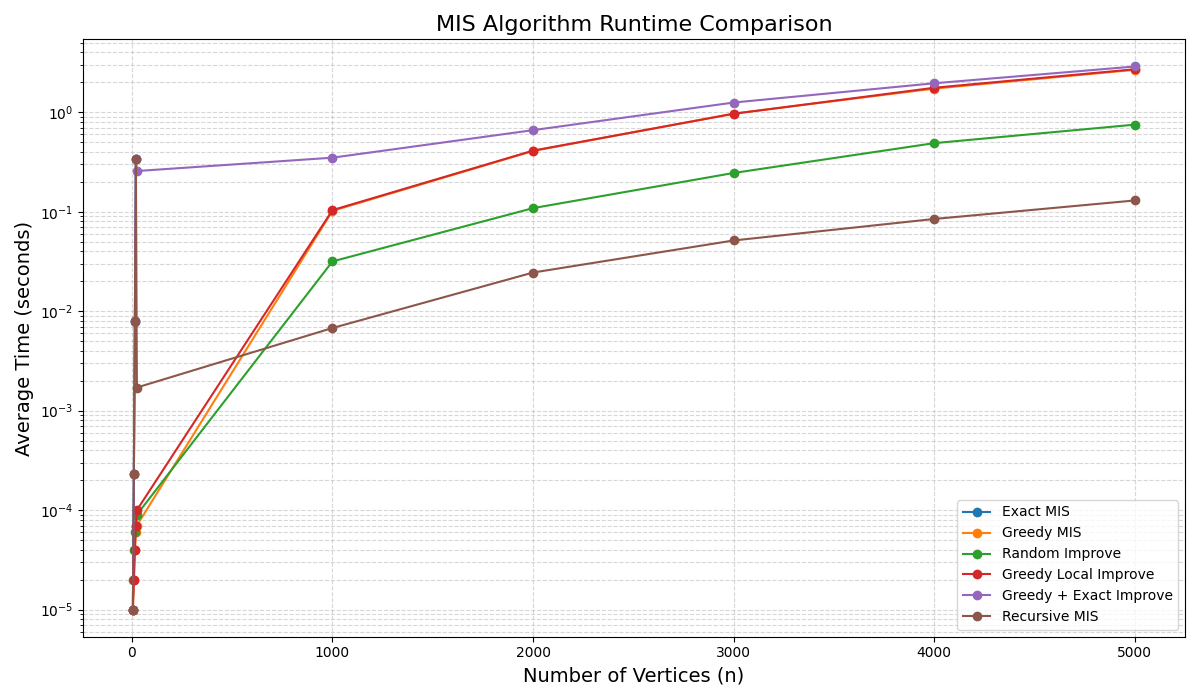
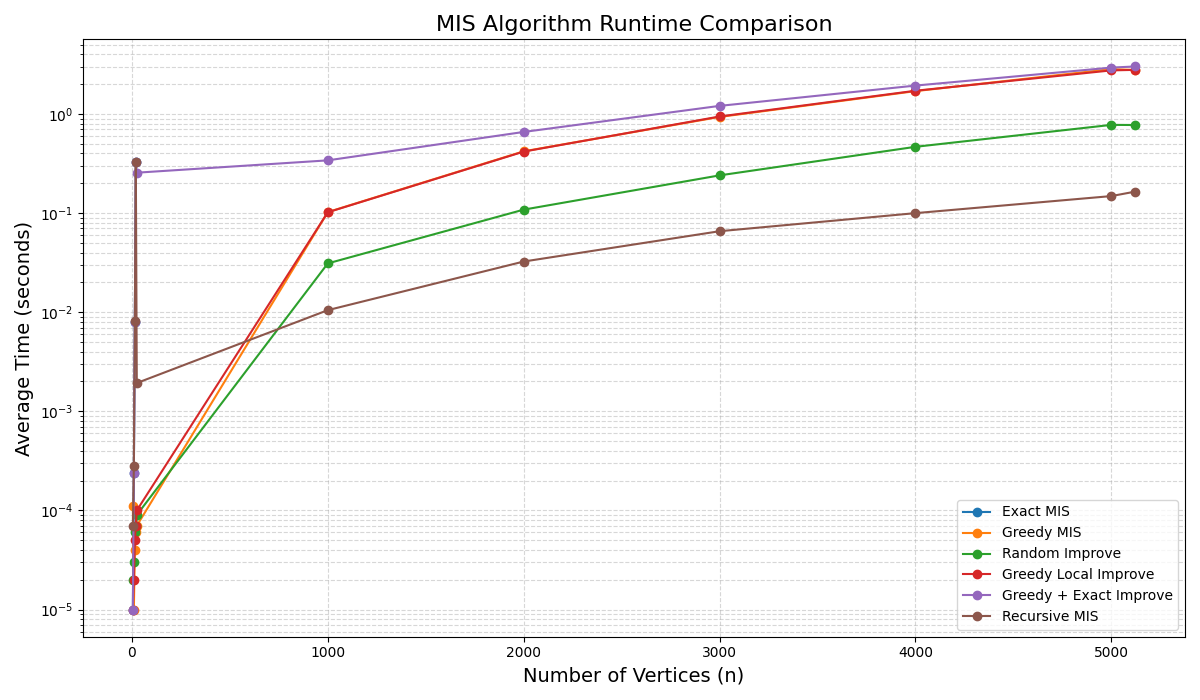
Plots added

diff --git a/main.py b/main.py
@@ -51,6 +51,42 @@ def plot_mis_times(csv_file="mis_results.csv"):
     plt.savefig("time_plot.png")
     plt.close()
 
+def plot_mis_sizes(csv_file="mis_results.csv"):
+    """
+    Reads the pivot CSV produced by MIS experiments and plots
+    the size of the MIS found by each algorithm vs. number of vertices.
+    """
+
+    # Load CSV
+    df = pd.read_csv(csv_file)
+
+    x = df["vertices"]
+
+    plt.figure(figsize=(12, 7))
+
+    # Only plot exact where it exists (small n)
+    plt.plot(x, df["exact_size"], marker="o", label="Exact MIS")
+
+    plt.plot(x, df["greedy_size"], marker="o", label="Greedy MIS")
+    plt.plot(x, df["random_size"], marker="o", label="Random Improve")
+    plt.plot(x, df["greedy_local_improve_size"], marker="o",
+             label="Greedy Local Improve")
+    plt.plot(x, df["greedy_brute_force_size"], marker="o",
+             label="Greedy + Exact Improve")
+    plt.plot(x, df["recursive_size"], marker="o",
+             label="Recursive MIS")
+
+    plt.xlabel("Number of Vertices (n)", fontsize=14)
+    plt.ylabel("MIS Size (|S|)", fontsize=14)
+    plt.title("MIS Algorithm Solution Size Comparison", fontsize=16)
+
+    plt.grid(True, linestyle="--", alpha=0.5)
+    plt.legend()
+    plt.tight_layout()
+
+    plt.savefig("size_plot.png")
+    plt.close()
+
 
 def find_time(func, graph):
     start = t.perf_counter()
@@ -160,6 +196,10 @@ def main():
         e = 2 * n
         row = test_time_metrics(n, e)
         all_rows.append(row)
+    n = 5120
+    e = 2 * n
+    row = test_time_metrics(n, e)
+    all_rows.append(row)
 
     # Write pivot-style CSV
     with open("mis_results.csv", "w", newline="") as f:
@@ -183,9 +223,11 @@ def main():
         writer.writerows(all_rows)
 
     print("\nCSV file 'mis_pivot_results.csv' written successfully!")
-    plot_mis_times()
+    
     
 
 
 if __name__ == "__main__":
     main()
+    plot_mis_times()
+    plot_mis_sizes()
